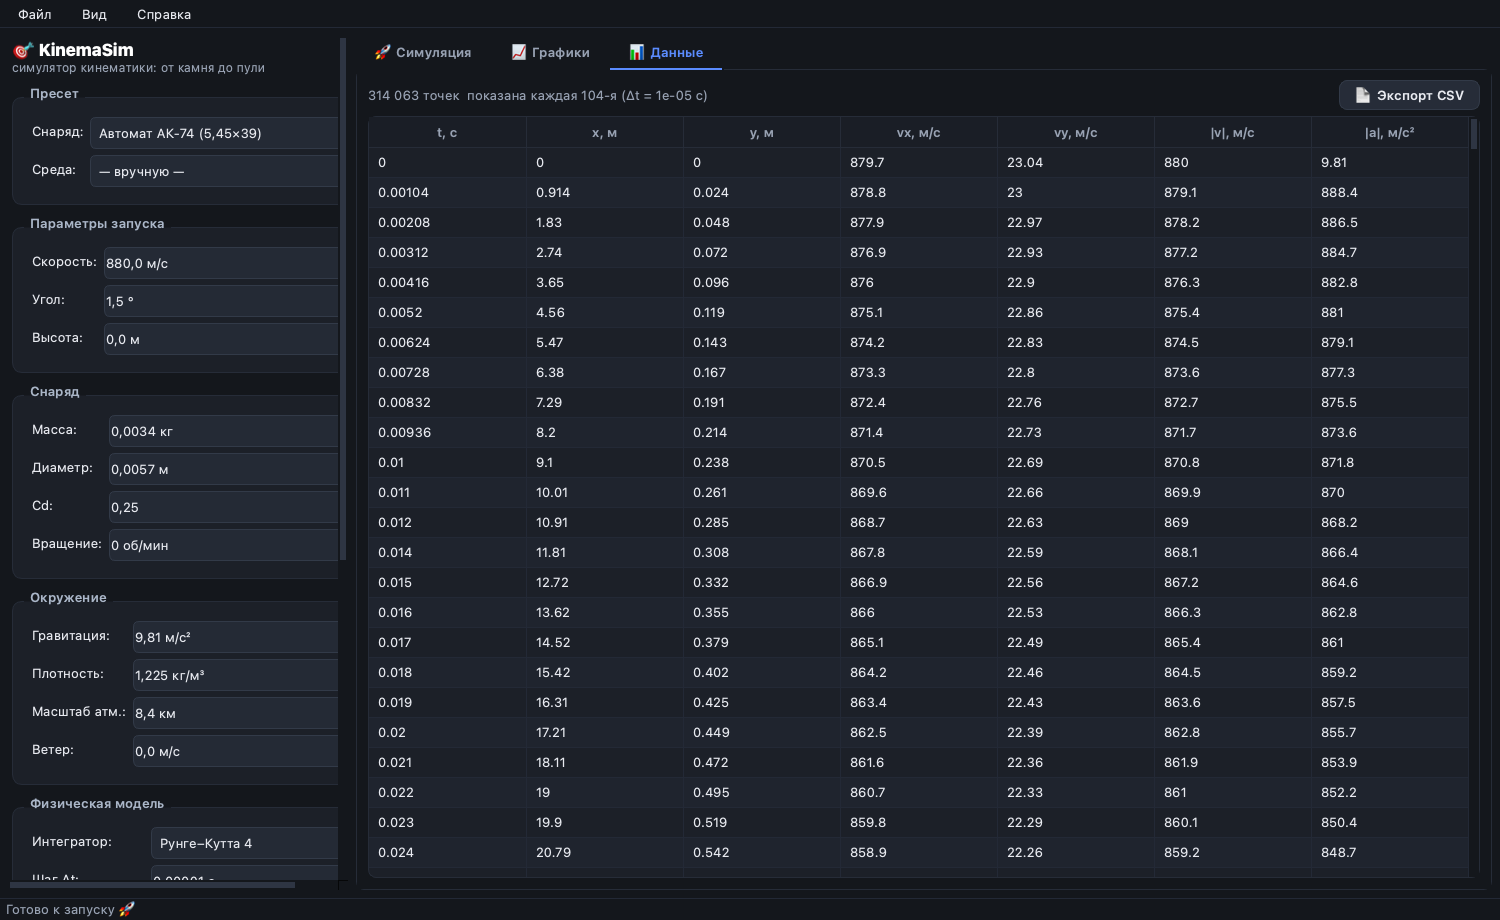
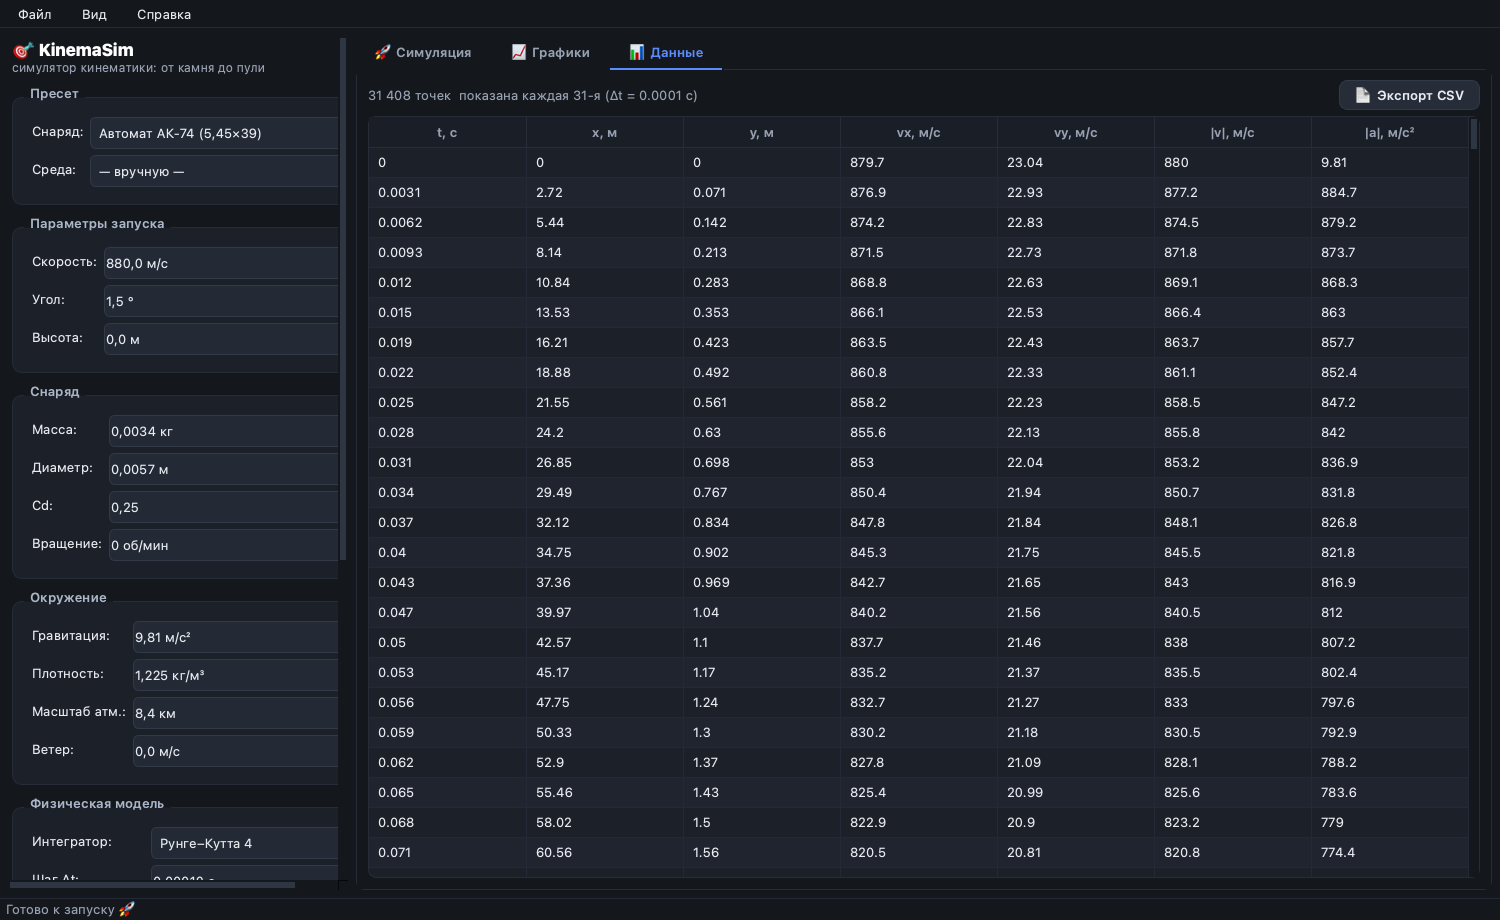
perf: расчёт в фоновом QThread + прореживание отрисовки + авто-dt ≥ 100 мкс
Раньше пульные симуляции замораживали окно: чистый Python считал в главном
потоке (одно ядро из многих — в мониторе выглядело как «не использует ресурсы»),
а график каждый кадр перерисовывал все ~500k точек.

- SimulationWorker в постоянном QThread (invokeMethod QueuedConnection),
  спам-клики игнорируются, кнопка блокируется на время расчёта
- отрисовка траекторий и графиков анализа прореживается до 3000 точек
  (полные данные остаются в CSV-экспорте и физике)
- авто-dt не мельче 100 мкс: дальность идентична шагу 10 мкс (1162.08 м
  для АК-74), расчёт в 10 раз быстрее (86 мс против 842 мс)
- App(QObject): сигналы воркера приходят в главный поток

diff --git a/src/main.py b/src/main.py
@@ -3,27 +3,61 @@
 
 import argparse
 import json
-import time
 import sys
+import time
 
+from PySide6.QtCore import QObject, QThread, QMetaObject, Qt, Signal, Slot
 from PySide6.QtWidgets import QApplication, QFileDialog, QMessageBox
 
 from interface_module.window import MainWindowUI
+from physics.config import SimulationConfig
 from physics.engine import simulate
 from ui_loader import resource_path
 
 APP_NAME = "KinemaSim"
-APP_VERSION = "1.0.0"
+APP_VERSION = "1.0.1"
 CONFIG_EXTENSION = ".kinemasim.json"
 
 
-class App:
-    """Оркестрация: окно + действия с файлами, сама симуляция — по сигналу окна."""
+class SimulationWorker(QObject):
+    """Симуляция в фоне: чистый Python занял бы главный поток и заморозил окно.
+    Живёт в собственном потоке всю сессию, запуски приходят через invokeMethod."""
+    finished = Signal(object)
+    failed = Signal(str)
+
+    def __init__(self):
+        super().__init__()
+        self.config: SimulationConfig | None = None
+        self.started_at = 0.0
+
+    @Slot()
+    def run(self):
+        try:
+            result = simulate(self.config)
+            self.finished.emit(result)
+        except Exception as e:
+            self.failed.emit(f"{type(e).__name__}: {e}")
+
+
+class App(QObject):
+    """Оркестрация: окно + действия с файлами, сама симуляция — по сигналу окна.
+
+    Наследуется от QObject, чтобы сигналы воркера приходили в главный поток
+    (AutoConnection), а не исполнялись внутри потока расчёта."""
 
     def __init__(self, config_path: str | None=None):
+        super().__init__()
         self.appApplication: QApplication | None = None
         self.windowUI: MainWindowUI | None = None
         self.run_counter = 0
+
+        self.sim_worker = SimulationWorker()
+        self.sim_thread = QThread()
+        self.sim_worker.moveToThread(self.sim_thread)
+        self.sim_worker.finished.connect(self.on_simulation_finished)
+        self.sim_worker.failed.connect(self.on_simulation_failed)
+        self.sim_thread.start()
+        self._sim_busy = False
 
         self.windowUI = MainWindowUI()
         self.init_window()
@@ -39,6 +73,7 @@ class App:
         w.action_export_png.triggered.connect(w.export_png)
         w.action_about.triggered.connect(self.show_about)
         w.btn_export_csv.clicked.connect(self.export_csv)
+        w.closeEvent = self.close_application
 
     def start(self, qapp: QApplication):
         log_prefix = f"[{APP_NAME}]"
@@ -55,12 +90,21 @@ class App:
     # ─── Симуляция ───────────────────────────────────────────────────
 
     def run_simulation(self):
-        """Собирает настройки из окна, считает полёт и добавляет его в историю."""
-        config = self.windowUI.settings_panel.collect_config()
-        started = time.perf_counter()
-        result = simulate(config)
-        elapsed_ms = (time.perf_counter() - started) * 1000
+        """Собирает настройки из окна и запускает расчёт в фоновом потоке."""
+        if self._sim_busy:
+            return  # предыдущий расчёт ещё идёт
+        self._sim_busy = True
+        self.sim_worker.config = self.windowUI.settings_panel.collect_config()
+        self.sim_worker.started_at = time.perf_counter()
+        self.windowUI.settings_panel.btn_run.setEnabled(False)
+        self.windowUI.statusBar().showMessage("⏳ Считаю симуляцию…")
+        QMetaObject.invokeMethod(self.sim_worker, "run", Qt.ConnectionType.QueuedConnection)
 
+    def on_simulation_finished(self, result):
+        self._sim_busy = False
+        self.windowUI.settings_panel.btn_run.setEnabled(True)
+
+        elapsed_ms = (time.perf_counter() - self.sim_worker.started_at) * 1000
         self.run_counter += 1
         preset_name = self.windowUI.settings_panel.combo_preset.currentText()
         if preset_name == "— вручную —":
@@ -74,6 +118,25 @@ class App:
             f"✓ {result.status.lower()}: {len(result.t):,} шагов за {elapsed_ms:.0f} мс — "
             f"дальность {r['range']:.1f} м, высота {r['max_height']:.1f} м, "
             f"время {r['flight_time']:.2f} с".replace(",", " "))
+
+    def on_simulation_failed(self, message: str):
+        self._sim_busy = False
+        self.windowUI.settings_panel.btn_run.setEnabled(True)
+        self.windowUI.statusBar().showMessage(f"✗ Ошибка симуляции: {message}")
+        QMessageBox.warning(self.windowUI, "Ошибка симуляции", message)
+
+    def close_application(self, event):
+        if self._sim_busy:  # даём фоновому расчёту доделать, окно остаётся живым
+            self.windowUI.statusBar().showMessage("⏳ Дожимаю расчёт перед выходом…")
+            deadline = time.time() + 30
+            while self._sim_busy and time.time() < deadline:
+                QApplication.processEvents()
+                time.sleep(0.05)
+        self.sim_thread.quit()
+        self.sim_thread.wait(5000)
+        self.sim_thread.deleteLater()
+        self.sim_worker.deleteLater()
+        event.accept()
 
     # ─── Файлы: настройки и экспорт ──────────────────────────────────
 
@@ -98,7 +161,6 @@ class App:
                 f"KinemaSim settings (*{CONFIG_EXTENSION});;JSON (*.json)")
         if not path:
             return
-        from physics.config import SimulationConfig
         try:
             with open(path, "r", encoding="utf-8") as f:
                 config = SimulationConfig.from_dict(json.load(f))

diff --git a/src/interface_module/window.py b/src/interface_module/window.py
@@ -19,8 +19,17 @@ from .chart import ChartWidget
 
 RUN_COLORS = ["#5b8cff", "#ff6b6b", "#3ecf8e", "#ffd166", "#c792ea", "#4dd0e1",
               "#ff9f43", "#7bed9f", "#ff7ab6", "#95de64", "#64b5f6", "#f06292"]
-MAX_TABLE_ROWS = 3000
+MAX_TABLE_ROWS = 1000
+RENDER_POINT_LIMIT = 3000   # прореживание для отрисовки: полные данные — только в CSV/физике
 CUSTOM_PRESET = "— вручную —"
+
+
+def _decimate(values: list, stride: int) -> list:
+    """Каждая stride-я точка + всегда последняя (чтобы кривая доходила до конца)."""
+    result = values[::stride]
+    if result and result[-1] is not values[-1]:
+        result = result + [values[-1]]
+    return result
 
 
 @contextmanager
@@ -530,10 +539,12 @@ class MainWindowUI(QMainWindow):
                 continue
             active = record is self.runs_panel.active()
             result = record.result
+            stride = max(1, len(result.t) // RENDER_POINT_LIMIT)
             series.append({
-                "points": list(zip(result.x, result.y)),
+                "points": list(zip(_decimate(result.x, stride), _decimate(result.y, stride))),
                 "color": record.color, "width": 2.6 if active else 1.8,
-                "name": record.name, "pickable": active, "time": result.t,
+                "name": record.name, "pickable": active,
+                "time": _decimate(result.t, stride),
             })
             if active:
                 markers.append({"x": result.results["apogee_distance"],
@@ -563,16 +574,23 @@ class MainWindowUI(QMainWindow):
         self._update_cursor()
 
     def _update_analysis_charts(self):
-        """Четыре графика: высота, скорость, энергия, ускорение — по времени."""
+        """Четыре графика: высота, скорость, энергия, ускорение — по времени.
+        Считаются только по прореженным точкам ( RENDER_POINT_LIMIT ), иначе
+        пульные запуски с сотнями тысяч шагов рисуются секундами."""
         chart_series = {}
         for record in self.runs_panel.records:
             if not record.visible:
                 continue
             result = record.result
-            t, y, vx, vy = result.t, result.y, result.vx, result.vy
             mass, g = result.config.mass, result.config.gravity
-            speeds = [hypot(vx[i], vy[i]) for i in range(len(t))]
-            accels = [hypot(result.ax[i], result.ay[i]) for i in range(len(t))]
+            stride = max(1, len(result.t) // RENDER_POINT_LIMIT)
+            t = _decimate(result.t, stride)
+            y = _decimate(result.y, stride)
+            speeds = [hypot(result.vx[i], result.vy[i]) for i in range(0, len(result.t), stride)]
+            accels = [hypot(result.ax[i], result.ay[i]) for i in range(0, len(result.t), stride)]
+            if len(speeds) < len(t):
+                speeds.append(result.speed_at(-1))
+                accels.append(hypot(result.ax[-1], result.ay[-1]))
             active = record is self.runs_panel.active()
             base = {"color": record.color, "width": 2.4 if active else 1.6, "name": record.name}
             chart_series.setdefault("h", []).append({**base, "points": list(zip(t, y))})

diff --git a/src/physics/config.py b/src/physics/config.py
@@ -74,7 +74,8 @@ class SimulationConfig:
 
     def suggest_dt(self) -> float:
         """Автоматический шаг: за шаг снаряд смещается не более чем на ~1/40 диаметра,
-        но не мельче 10 мкс (иначе полёт пули упрётся в лимит шагов)."""
+        но не мельче 100 мкс — точности РК4 этого хватает с запасом, а чистый Python
+        при меньших шагах считает секунды (притормаживает интерфейс)."""
         flow_time = self.diameter / max(self.speed, 0.1)
         dt = flow_time / 40
-        return min(max(dt, 1e-5), 0.005)
+        return min(max(dt, 1e-4), 0.005)
